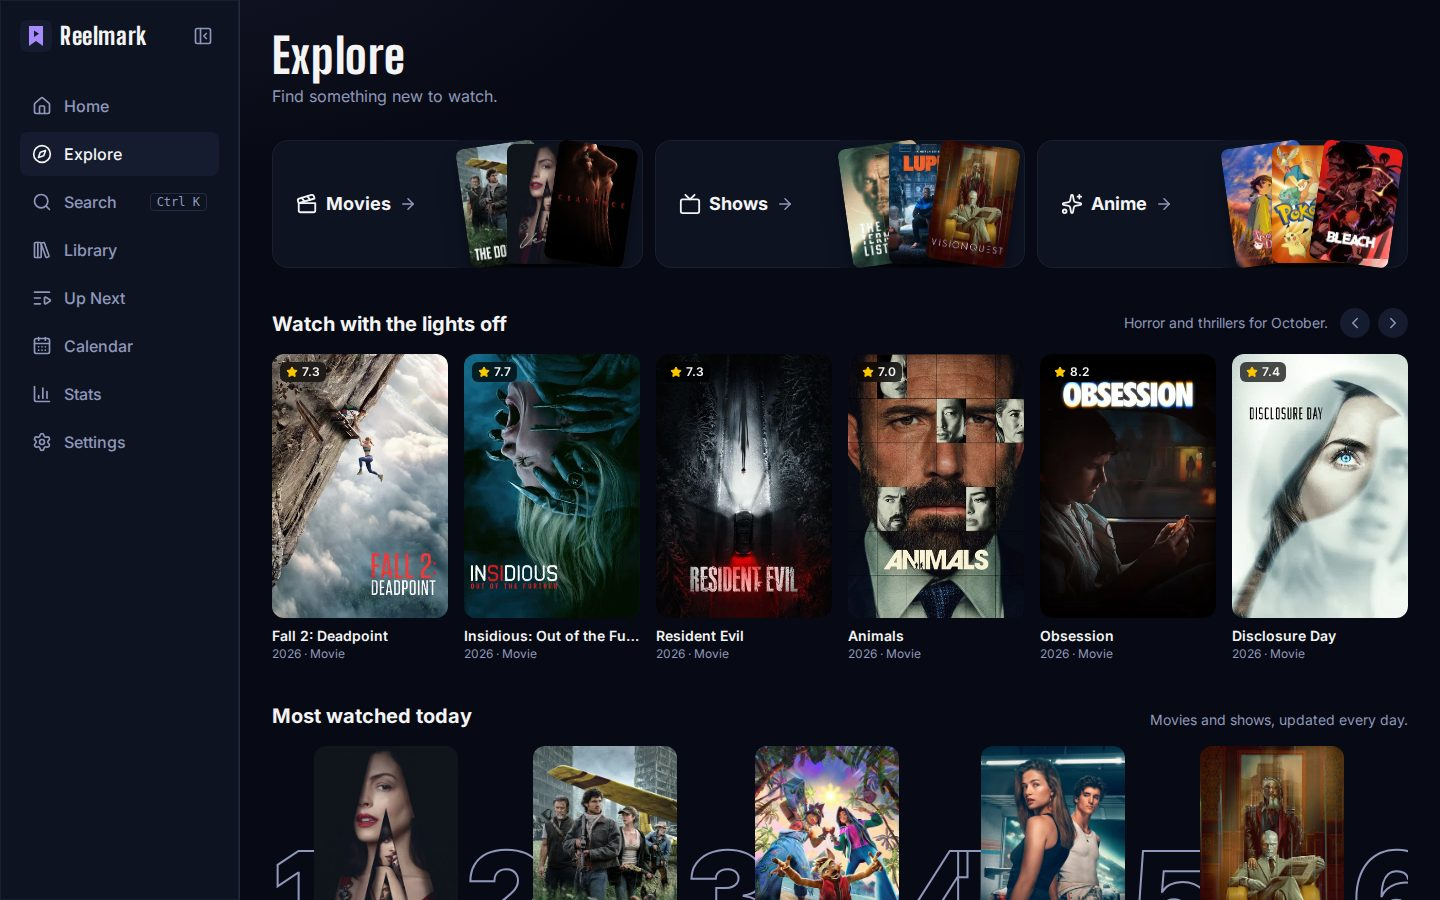
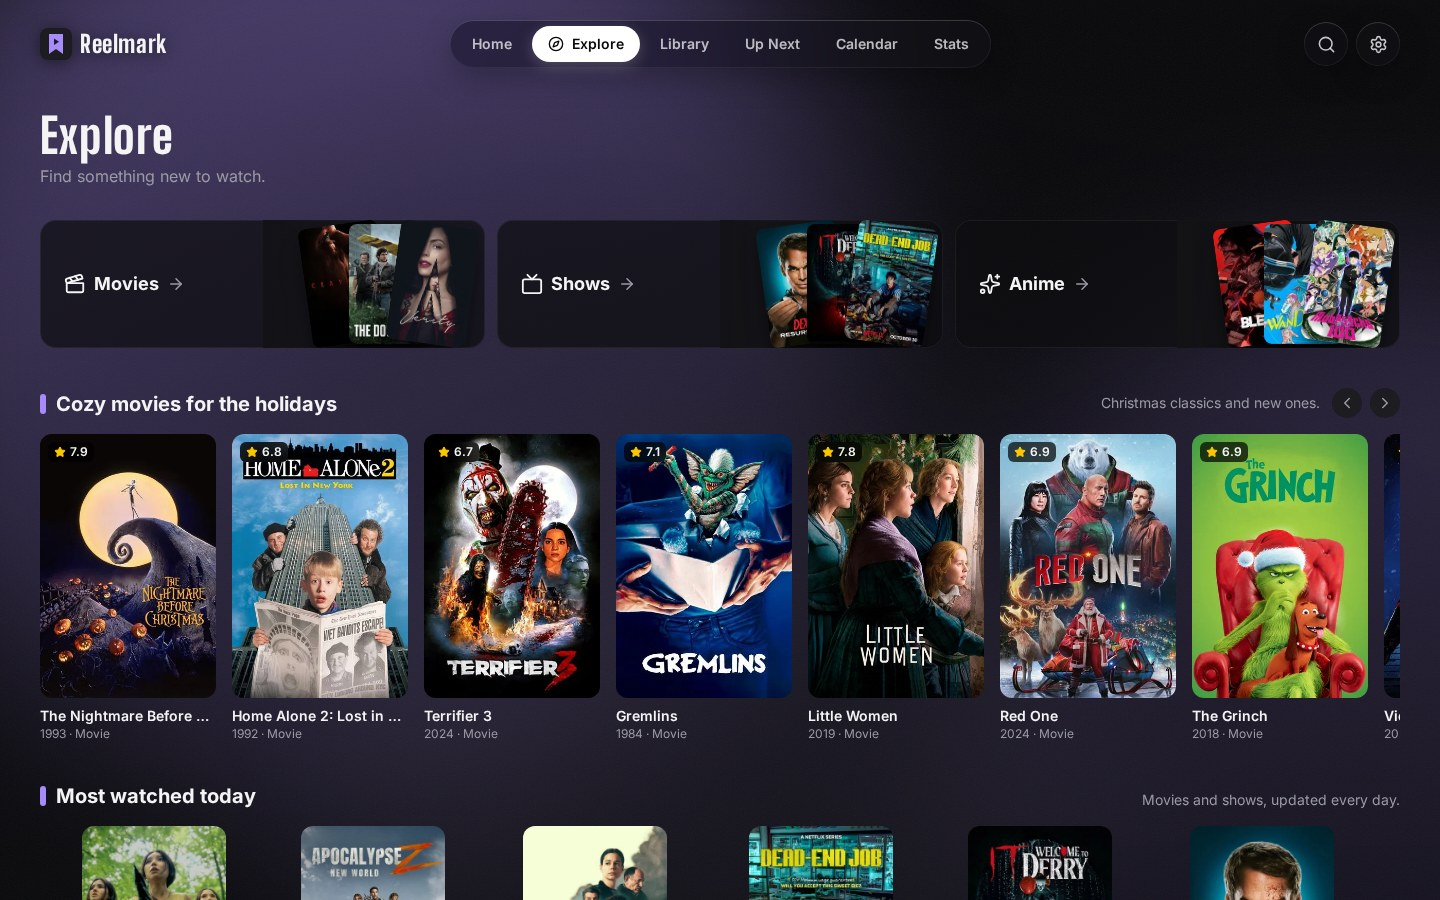
new reelmark screenshots and description

diff --git a/src/projects.js b/src/projects.js
@@ -6,7 +6,7 @@ const projects = [
     title: "Reelmark",
     featured: true,
     description:
-      "Track the movies, shows and anime you watch. Tick off episodes, see what's next and what's airing this week, and check your stats like total watch time and streaks. Everything is saved in the browser.",
+      "Track the movies, shows and anime you watch. Tick off episodes, see what's next and the exact time new episodes air, and check your stats like total watch time and streaks. The page takes the colors of the movie you're looking at. Everything is saved in the browser.",
     image: "/images/reelmark.jpg",
     slides: [
       { name: "Home", image: "/images/reelmark/home.jpg" },
@@ -16,7 +16,7 @@ const projects = [
       { name: "Library", image: "/images/reelmark/library.jpg" },
       { name: "Stats", image: "/images/reelmark/stats.jpg" },
     ],
-    tags: ["React", "React Router", "Tailwind CSS", "Zustand", "TMDB API"],
+    tags: ["React", "React Router", "Tailwind CSS", "Zustand", "TMDB API", "TVmaze API"],
     code: "https://github.com/rimjhimyadav/reelmark",
     live: "https://rimjhimyadav.github.io/reelmark/",
   },
